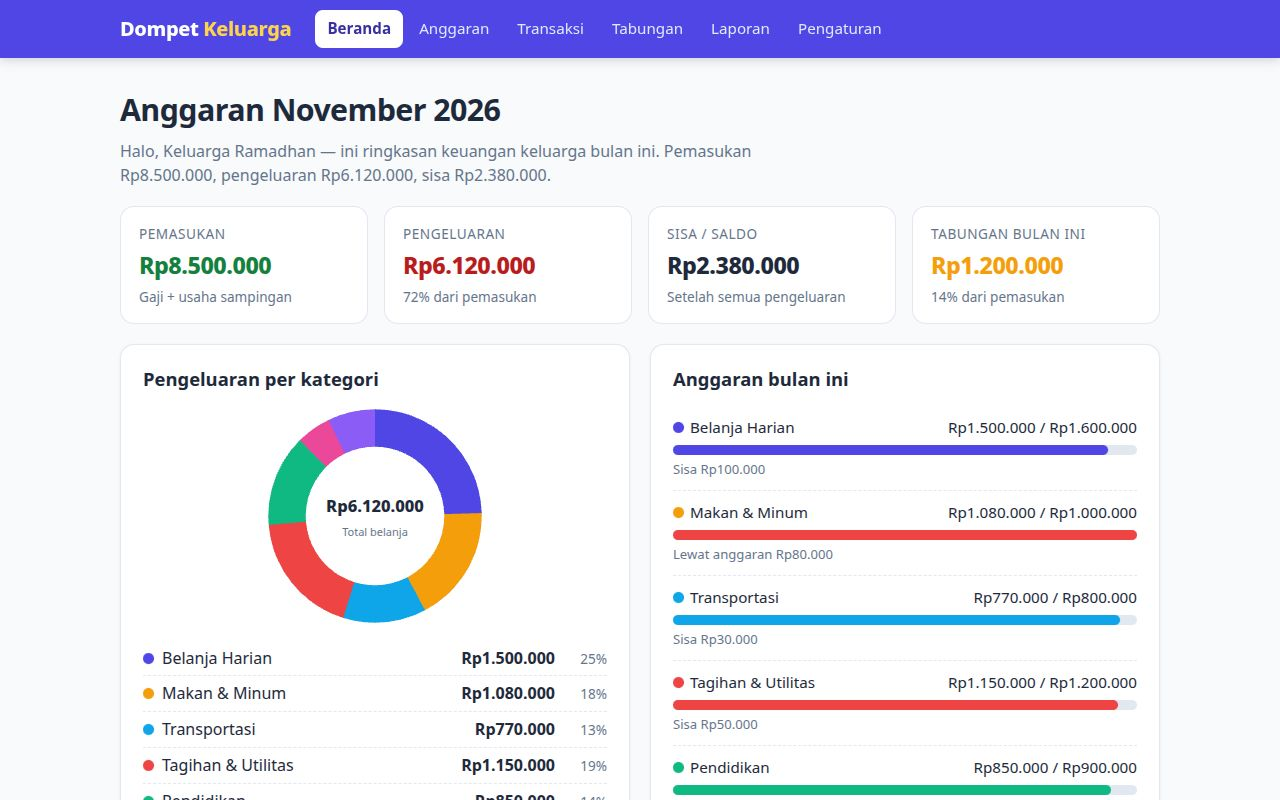
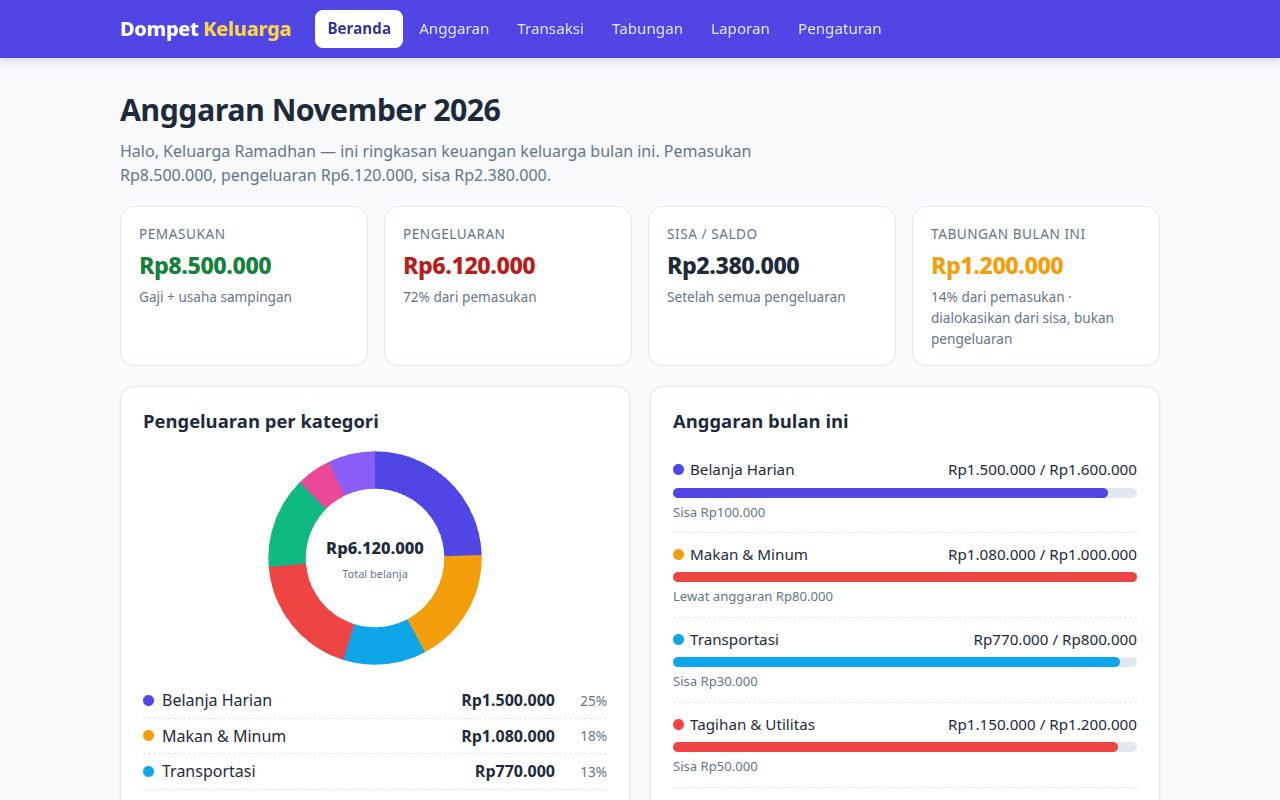
Clarify saving is allocated from remainder, add goal ETA
- Dashboard KPI Tabungan: sub-line now notes the saving is allocated
  from the remainder, not an expense
- Tabungan lead: clarifies monthly saving comes from the month's
  remainder after expenses, not counted as spending
- Goal cards: ETA line (months left at current monthly saving rate)

diff --git a/app/app.js b/app/app.js
@@ -68,7 +68,7 @@ function renderHome() {
     '<div class="kpi"><div class="kpi-label">Pemasukan</div><div class="kpi-value income">' + fmt(t.income) + '</div><div class="kpi-sub">Gaji + usaha sampingan</div></div>' +
     '<div class="kpi"><div class="kpi-label">Pengeluaran</div><div class="kpi-value expense">' + fmt(t.expense) + '</div><div class="kpi-sub">' + Math.round((t.expense / t.income) * 100) + '% dari pemasukan</div></div>' +
     '<div class="kpi"><div class="kpi-label">Sisa / Saldo</div><div class="kpi-value">' + fmt(t.balance) + '</div><div class="kpi-sub">Setelah semua pengeluaran</div></div>' +
-    '<div class="kpi"><div class="kpi-label">Tabungan bulan ini</div><div class="kpi-value saving">' + fmt(saving) + '</div><div class="kpi-sub">' + Math.round((saving / t.income) * 100) + '% dari pemasukan</div></div>' +
+    '<div class="kpi"><div class="kpi-label">Tabungan bulan ini</div><div class="kpi-value saving">' + fmt(saving) + '</div><div class="kpi-sub">' + Math.round((saving / t.income) * 100) + '% dari pemasukan &middot; dialokasikan dari sisa, bukan pengeluaran</div></div>' +
     '</section>' +
     '<section class="grid-2">' +
     '<div class="card"><h2>Pengeluaran per kategori</h2>' + donutChart(segs, 220) +
@@ -171,9 +171,11 @@ function renderGoals() {
   const totalTarget = state.goals.reduce((s, g) => s + g.target, 0);
   const cards = state.goals.map((g) => {
     const pct = (g.saved / g.target) * 100;
+    const monthlySaving = state.profile.monthlySaving;
+    const eta = (g.saved < g.target && monthlySaving > 0) ? '<div class="goal-meta"><span>&plusmn;' + Math.ceil((g.target - g.saved) / monthlySaving) + ' bulan lagi dengan tabungan ' + fmt(monthlySaving) + '/bulan</span></div>' : '';
     return '<div class="card goal"><h2>' + esc(g.name) + '</h2><p class="muted">' + esc(g.note) + '</p>' +
       '<div class="goal-nums"><strong>' + fmt(g.saved) + '</strong><span> dari ' + fmt(g.target) + '</span></div>' +
-      progressBar(pct, '#f59e0b') + '<div class="goal-meta"><span>' + pct.toFixed(1) + '% tercapai</span><span>Sisa ' + fmt(g.target - g.saved) + '</span></div>' +
+      progressBar(pct, '#f59e0b') + '<div class="goal-meta"><span>' + pct.toFixed(1) + '% tercapai</span><span>Sisa ' + fmt(g.target - g.saved) + '</span></div>' + eta +
       '<form class="add-funds" data-goal="' + g.id + '"><label class="sr" for="fund-' + g.id + '">Tambah dana ' + esc(g.name) + '</label>' +
       '<input id="fund-' + g.id + '" type="number" min="10000" step="10000" placeholder="Tambah dana (Rp)" required />' +
       '<button class="btn primary small" type="submit">+ Tambah Dana</button></form></div>';
@@ -182,7 +184,7 @@ function renderGoals() {
   return navHtml('#/tabungan') + '<main class="wrap">' +
     '<section class="hero"><h1>Target Tabungan</h1><p class="lead">Total tabungan keluarga ' + fmt(totalSaved) + ' dari target ' +
     fmt(totalTarget) + ' (' + Math.round((totalSaved / totalTarget) * 100) + '%). Tabungan bulan ini ' + fmt(state.profile.monthlySaving) +
-    ' disisihkan dari pemasukan ' + fmt(totalsFor(state, state.profile.activeMonth).income) + '.</p></section>' +
+    ' disisihkan dari pemasukan ' + fmt(totalsFor(state, state.profile.activeMonth).income) + '. Tabungan ini dialokasikan dari sisa bulan ini setelah pengeluaran, bukan dihitung sebagai pengeluaran.</p></section>' +
     '<div class="grid-2">' + cards + '</div></main>' + footerHtml();
 }
 
